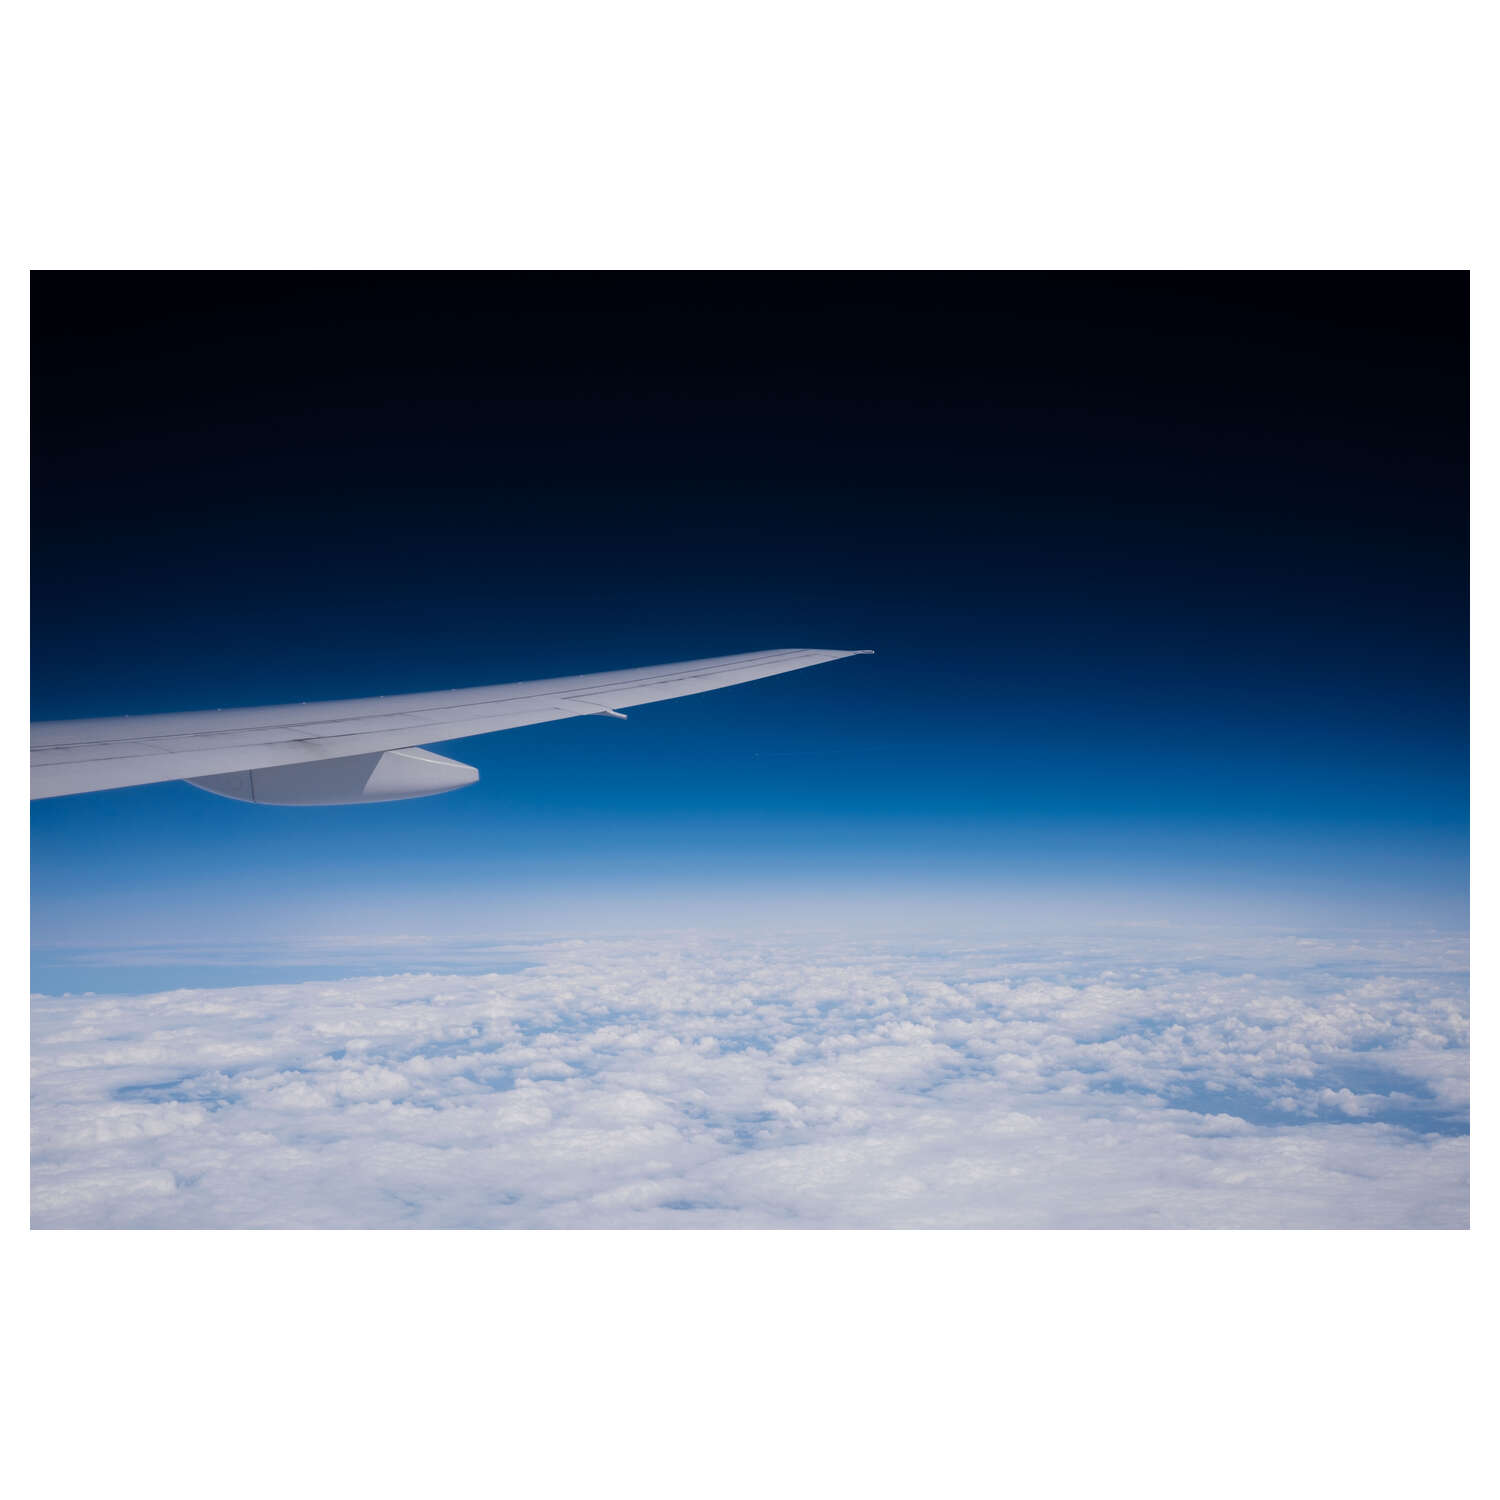
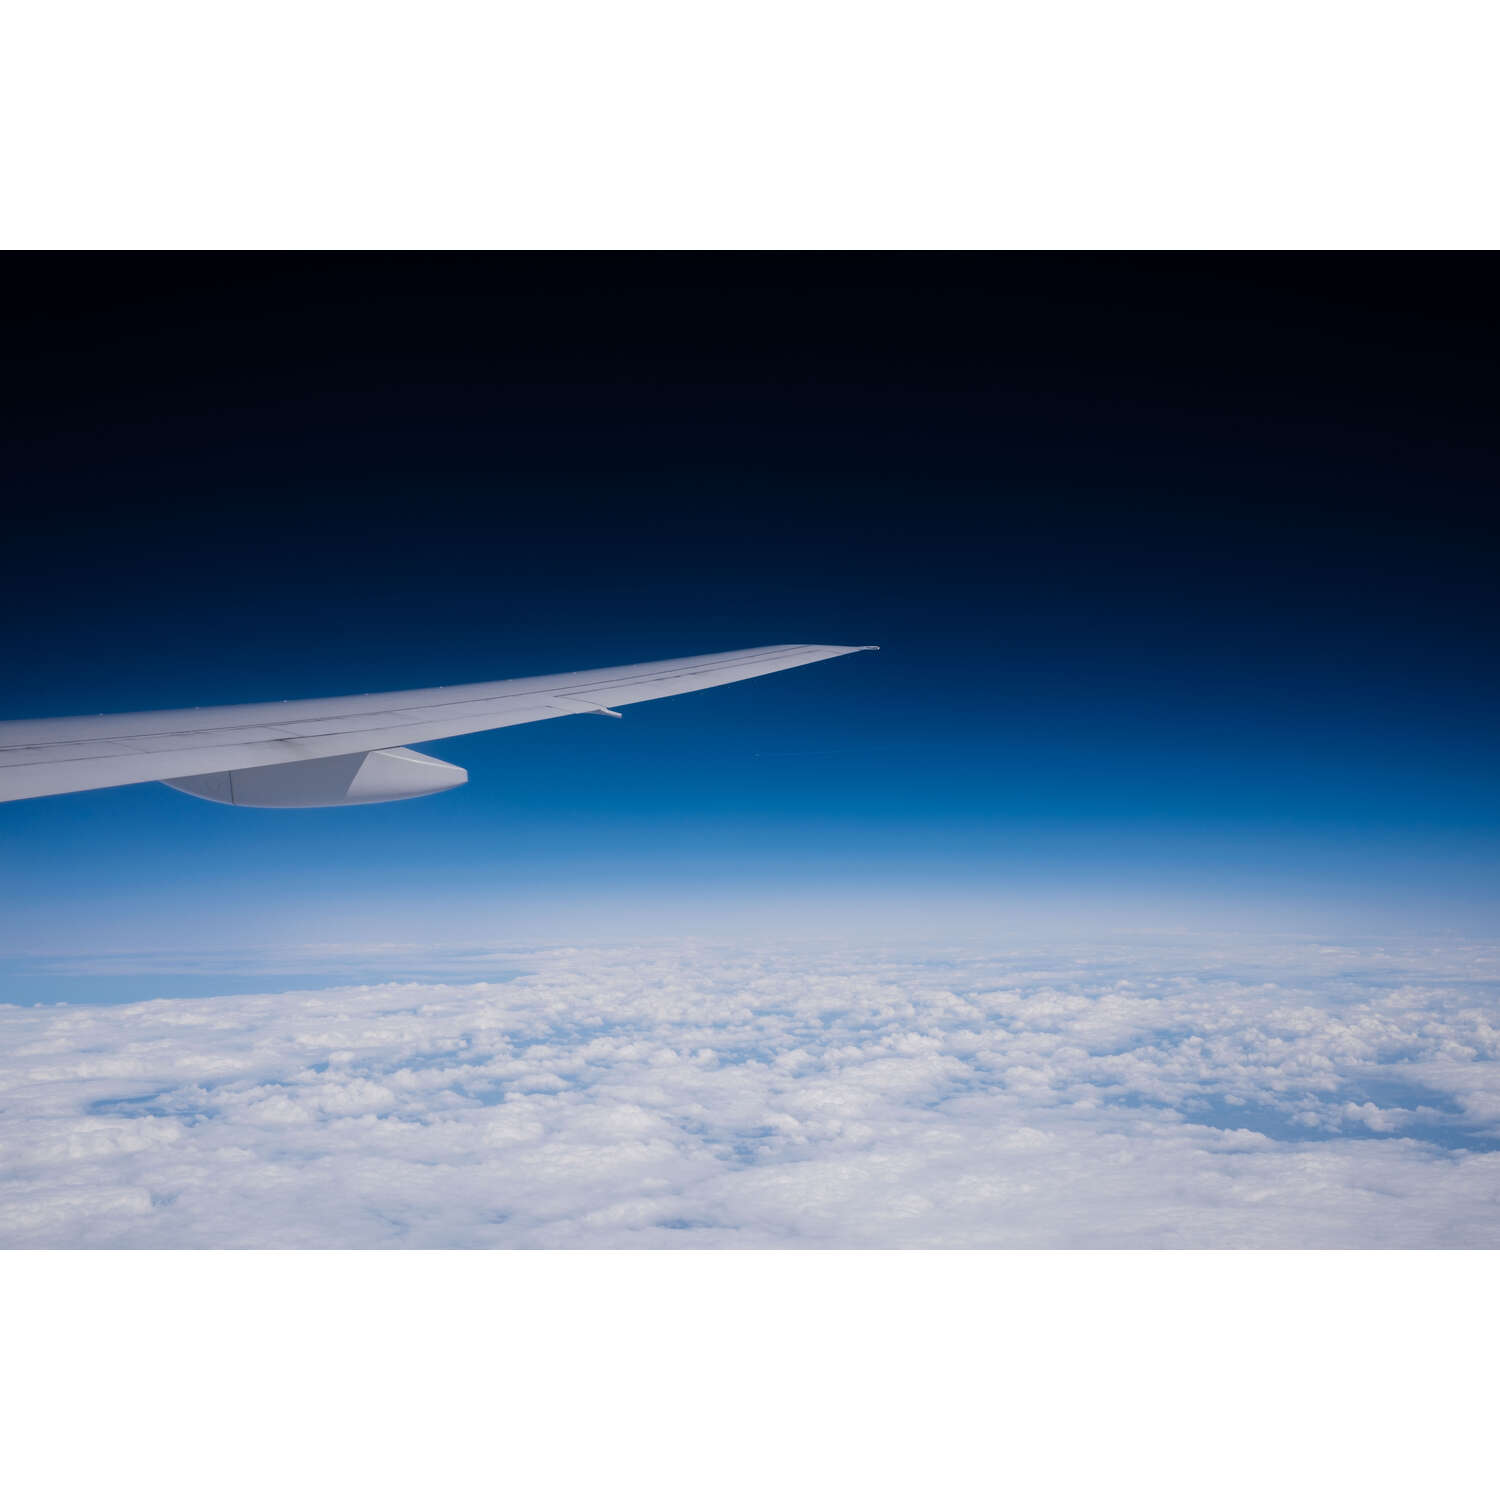
Created pages for missing galleries and updated the index page picture

Changed region(s): [[0.0, 0.1533, 1.0, 0.8587], [0.1227, 0.5213, 0.184, 0.552]]

diff --git a/galleries/riat2023.html b/galleries/riat2023.html
@@ -4,6 +4,7 @@
         <title>Aviation Photography</title>
         <meta charset="utf-8">
         <meta name="viewport" content="width=device-width, initial-scale=1">
+        <link rel="stylesheet" href="https://exhaustplume.github.io/gallerystyle.css">
         <link rel="stylesheet" href="https://maxcdn.bootstrapcdn.com/bootstrap/3.4.1/css/bootstrap.min.css">
         <script src="https://ajax.googleapis.com/ajax/libs/jquery/3.6.3/jquery.min.js"></script>
         <script src="https://maxcdn.bootstrapcdn.com/bootstrap/3.4.1/js/bootstrap.min.js"></script>
@@ -15,7 +16,7 @@
                     <a class="navbar-brand" href="https://exhaustplume.github.io/index.html">Pierre's Aviation Photography</a>
                 </div>
                 <ul class="nav navbar-nav">
-                    <li><a href="index.html">Home</a></li>
+                    <li><a href="https://exhaustplume.github.io/index.html">Home</a></li>
                     <li class="active dropdown">
                         <a class="dropdown-toggle" data-toggle="dropdown" href="#">Galleries
                         <span class="caret"></span></a>
@@ -33,63 +34,8 @@
             </div>
         </nav>
         <div class="container">
-            <h3>Abingdon Air and Country Show 2021</h3>
-            <div id="abingdoncarousel" class="carousel slide" data-interval="false">
-                <!-- Indicators
-                <ol class="carousel-indicators">
-                    <li data-target="#abingdoncarousel" data-slide-to="0" class="active"></li>
-                    <li data-target="#abingdoncarousel" data-slide-to="1"></li>
-                    <li data-target="#abingdoncarousel" data-slide-to="2"></li>
-                </ol> -->
-
-                <!-- Wrapper for slides -->
-                <div class="carousel-inner">
-                    <div class="item active ratio ratio-4x3">
-                        <img src="https://exhaustplume.github.io/photos/abingdon2021-1.jpg" alt="Supermarine Spitfire (TE311) in flight." style="width:100%;">
-                    </div>
-                    <div class="item ratio ratio-4x3">
-                        <img src="https://exhaustplume.github.io/photos/abingdon2021-2.jpg" alt="Supermarine Spitfire (TE311) in flight, banking left." style="width:100%;">
-                    </div>
-                    <div class="item ratio ratio-4x3">
-                        <img src="https://exhaustplume.github.io/photos/abingdon2021-3.jpg" alt="Supermarine Spitfire (TE311) in flight." style="width:100%;">
-                    </div>
-                    <div class="item ratio ratio-4x3">
-                        <img src="https://exhaustplume.github.io/photos/abingdon2021-4.jpg" alt="North American P-51D Mustang ('Miss Helen') departing the airfield." style="width:100%;">
-                    </div>
-                    <div class="item ratio ratio-4x3">
-                        <img src="https://exhaustplume.github.io/photos/abingdon2021-5.jpg" alt="North American P-51D Mustang ('Miss Helen') descending through the clouds." style="width:100%;">
-                    </div>
-                    <div class="item ratio ratio-4x3">
-                        <img src="https://exhaustplume.github.io/photos/abingdon2021-6.jpg" alt="North American P-51D Mustang ('Miss Helen') slowing down after landing." style="width:100%;">
-                    </div>
-                    <div class="item ratio ratio-4x3">
-                        <img src="https://exhaustplume.github.io/photos/abingdon2021-7.jpg" alt="Westland Sea King facing the crowd." style="width:100%;">
-                    </div>
-                    <div class="item ratio ratio-4x3">
-                        <img src="https://exhaustplume.github.io/photos/abingdon2021-8.jpg" alt="Eurofighter Typhoon banking hard and lighting afterburners." style="width:100%;">
-                    </div>
-                    <div class="item ratio ratio-4x3">
-                        <img src="https://exhaustplume.github.io/photos/abingdon2021-9.jpg" alt="Eurofighter Typhoon zooming into the clouds." style="width:100%;">
-                    </div>
-                    <div class="item ratio ratio-4x3">
-                        <img src="https://exhaustplume.github.io/photos/abingdon2021-10.jpg" alt="Boeing B-17 departing the runway." style="width:100%;">
-                    </div>
-                    <div class="item ratio ratio-4x3">
-                        <img src="https://exhaustplume.github.io/photos/abingdon2021-11.jpg" alt="Boeing B-17 flying away with its bay doors opened." style="width:100%;">
-                    </div>
-                </div>
-
-                <!-- Left and right controls -->
-                <a class="left carousel-control" href="#abingdoncarousel" data-slide="prev">
-                    <span class="glyphicon glyphicon-chevron-left"></span>
-                    <span class="sr-only">Previous</span>
-                </a>
-                <a class="right carousel-control" href="#abingdoncarousel" data-slide="next">
-                    <span class="glyphicon glyphicon-chevron-right"></span>
-                    <span class="sr-only">Next</span>
-                </a>
-            </div>
-        </div>
+            <h3>RIAT 2023</h3>
+            <p>This gallery is not yet available. Please check back at a later time.</p>
     </body>
 </html>
 

diff --git a/galleries/coningsby2022.html b/galleries/coningsby2022.html
@@ -1,0 +1,41 @@
+<!doctype html>
+<html lang="en">
+    <head>
+        <title>Aviation Photography</title>
+        <meta charset="utf-8">
+        <meta name="viewport" content="width=device-width, initial-scale=1">
+        <link rel="stylesheet" href="https://exhaustplume.github.io/gallerystyle.css">
+        <link rel="stylesheet" href="https://maxcdn.bootstrapcdn.com/bootstrap/3.4.1/css/bootstrap.min.css">
+        <script src="https://ajax.googleapis.com/ajax/libs/jquery/3.6.3/jquery.min.js"></script>
+        <script src="https://maxcdn.bootstrapcdn.com/bootstrap/3.4.1/js/bootstrap.min.js"></script>
+    </head>
+    <body>
+        <nav class="navbar fixed-top navbar-default">
+            <div class="container-fluid">
+                <div class="navbar-header">
+                    <a class="navbar-brand" href="https://exhaustplume.github.io/index.html">Pierre's Aviation Photography</a>
+                </div>
+                <ul class="nav navbar-nav">
+                    <li><a href="https://exhaustplume.github.io/index.html">Home</a></li>
+                    <li class="active dropdown">
+                        <a class="dropdown-toggle" data-toggle="dropdown" href="#">Galleries
+                        <span class="caret"></span></a>
+                        <ul class="dropdown-menu">
+                            <li><a href="https://exhaustplume.github.io/galleries/abingdon2021.html">Abingdon 2011</a></li>
+                            <li><a href="https://exhaustplume.github.io/galleries/queenjubilee2022.html">Queen's Jubilee 2022</a></li>
+                            <li><a href="https://exhaustplume.github.io/galleries/coningsby2022.html">Coningsby 2022</a></li>
+                            <li><a href="https://exhaustplume.github.io/galleries/riat2023.html">RIAT 2023</a></li>
+                            <li><a href="https://exhaustplume.github.io/galleries/lowlevelflying.html">Low-Level Flying</a></li>
+                            <li><a href="https://exhaustplume.github.io/galleries/civilaviation.html">Civil Aviation</a></li>
+                        </ul>
+                    </li>
+                    <li><a href="https://exhaustplume.github.io/about.html">About/FAQ</a></li>
+                </ul>
+            </div>
+        </nav>
+        <div class="container">
+            <h3>RAF Coningsby 2022</h3>
+            <p>This gallery is not yet available. Please check back at a later time.</p>
+    </body>
+</html>
+

diff --git a/galleries/lowlevelflying.html b/galleries/lowlevelflying.html
@@ -1,0 +1,41 @@
+<!doctype html>
+<html lang="en">
+    <head>
+        <title>Aviation Photography</title>
+        <meta charset="utf-8">
+        <meta name="viewport" content="width=device-width, initial-scale=1">
+        <link rel="stylesheet" href="https://exhaustplume.github.io/gallerystyle.css">
+        <link rel="stylesheet" href="https://maxcdn.bootstrapcdn.com/bootstrap/3.4.1/css/bootstrap.min.css">
+        <script src="https://ajax.googleapis.com/ajax/libs/jquery/3.6.3/jquery.min.js"></script>
+        <script src="https://maxcdn.bootstrapcdn.com/bootstrap/3.4.1/js/bootstrap.min.js"></script>
+    </head>
+    <body>
+        <nav class="navbar fixed-top navbar-default">
+            <div class="container-fluid">
+                <div class="navbar-header">
+                    <a class="navbar-brand" href="https://exhaustplume.github.io/index.html">Pierre's Aviation Photography</a>
+                </div>
+                <ul class="nav navbar-nav">
+                    <li><a href="https://exhaustplume.github.io/index.html">Home</a></li>
+                    <li class="active dropdown">
+                        <a class="dropdown-toggle" data-toggle="dropdown" href="#">Galleries
+                        <span class="caret"></span></a>
+                        <ul class="dropdown-menu">
+                            <li><a href="https://exhaustplume.github.io/galleries/abingdon2021.html">Abingdon 2011</a></li>
+                            <li><a href="https://exhaustplume.github.io/galleries/queenjubilee2022.html">Queen's Jubilee 2022</a></li>
+                            <li><a href="https://exhaustplume.github.io/galleries/coningsby2022.html">Coningsby 2022</a></li>
+                            <li><a href="https://exhaustplume.github.io/galleries/riat2023.html">RIAT 2023</a></li>
+                            <li><a href="https://exhaustplume.github.io/galleries/lowlevelflying.html">Low-Level Flying</a></li>
+                            <li><a href="https://exhaustplume.github.io/galleries/civilaviation.html">Civil Aviation</a></li>
+                        </ul>
+                    </li>
+                    <li><a href="https://exhaustplume.github.io/about.html">About/FAQ</a></li>
+                </ul>
+            </div>
+        </nav>
+        <div class="container">
+            <h3>Low-Level Flying</h3>
+            <p>This gallery is not yet available. Please check back at a later time.</p>
+    </body>
+</html>
+

diff --git a/galleries/civilaviation.html b/galleries/civilaviation.html
@@ -1,0 +1,41 @@
+<!doctype html>
+<html lang="en">
+    <head>
+        <title>Aviation Photography</title>
+        <meta charset="utf-8">
+        <meta name="viewport" content="width=device-width, initial-scale=1">
+        <link rel="stylesheet" href="https://exhaustplume.github.io/gallerystyle.css">
+        <link rel="stylesheet" href="https://maxcdn.bootstrapcdn.com/bootstrap/3.4.1/css/bootstrap.min.css">
+        <script src="https://ajax.googleapis.com/ajax/libs/jquery/3.6.3/jquery.min.js"></script>
+        <script src="https://maxcdn.bootstrapcdn.com/bootstrap/3.4.1/js/bootstrap.min.js"></script>
+    </head>
+    <body>
+        <nav class="navbar fixed-top navbar-default">
+            <div class="container-fluid">
+                <div class="navbar-header">
+                    <a class="navbar-brand" href="https://exhaustplume.github.io/index.html">Pierre's Aviation Photography</a>
+                </div>
+                <ul class="nav navbar-nav">
+                    <li><a href="https://exhaustplume.github.io/index.html">Home</a></li>
+                    <li class="active dropdown">
+                        <a class="dropdown-toggle" data-toggle="dropdown" href="#">Galleries
+                        <span class="caret"></span></a>
+                        <ul class="dropdown-menu">
+                            <li><a href="https://exhaustplume.github.io/galleries/abingdon2021.html">Abingdon 2011</a></li>
+                            <li><a href="https://exhaustplume.github.io/galleries/queenjubilee2022.html">Queen's Jubilee 2022</a></li>
+                            <li><a href="https://exhaustplume.github.io/galleries/coningsby2022.html">Coningsby 2022</a></li>
+                            <li><a href="https://exhaustplume.github.io/galleries/riat2023.html">RIAT 2023</a></li>
+                            <li><a href="https://exhaustplume.github.io/galleries/lowlevelflying.html">Low-Level Flying</a></li>
+                            <li><a href="https://exhaustplume.github.io/galleries/civilaviation.html">Civil Aviation</a></li>
+                        </ul>
+                    </li>
+                    <li><a href="https://exhaustplume.github.io/about.html">About/FAQ</a></li>
+                </ul>
+            </div>
+        </nav>
+        <div class="container">
+            <h3>Civil Aviation</h3>
+            <p>This gallery is not yet available. Please check back at a later time.</p>
+    </body>
+</html>
+

diff --git a/index.html b/index.html
@@ -28,7 +28,7 @@
                             <li><a href="https://exhaustplume.github.io/galleries/civilaviation.html">Civil Aviation</a></li>
                         </ul>
                     </li>
-                    <li><a href="https://exhaustplume.github.io/about.html">About</a></li>
+                    <li><a href="https://exhaustplume.github.io/about.html">About/FAQ</a></li>
                 </ul>
             </div>
         </nav>
@@ -39,7 +39,7 @@
             <p>I sincerely hope you enjoy looking through the pictures as much as I did taking them.</p>
         </div>
         <div>
-            <img src="https://exhaustplume.github.io/photos/sky.jpg" alt="A picture of the view from an aircraft window, cruising above the Atlantic Ocean." style="width:100%;">
+            <img src="https://exhaustplume.github.io/photos/sky.jpg" alt="A picture of the view from an aircraft window, cruising above the Atlantic Ocean." style="width:70%;">
         </div>
     </body>
 </html>
